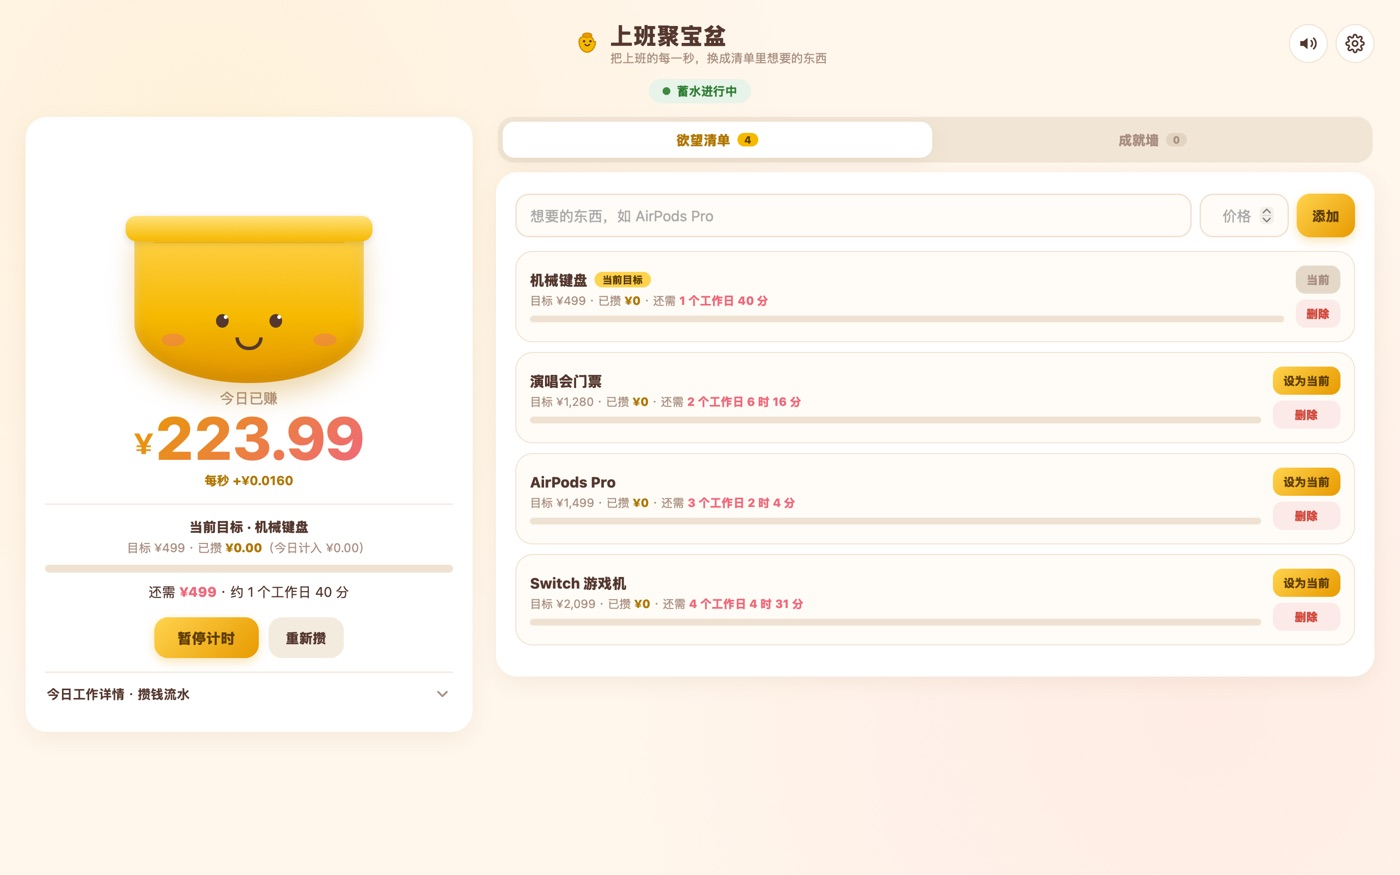
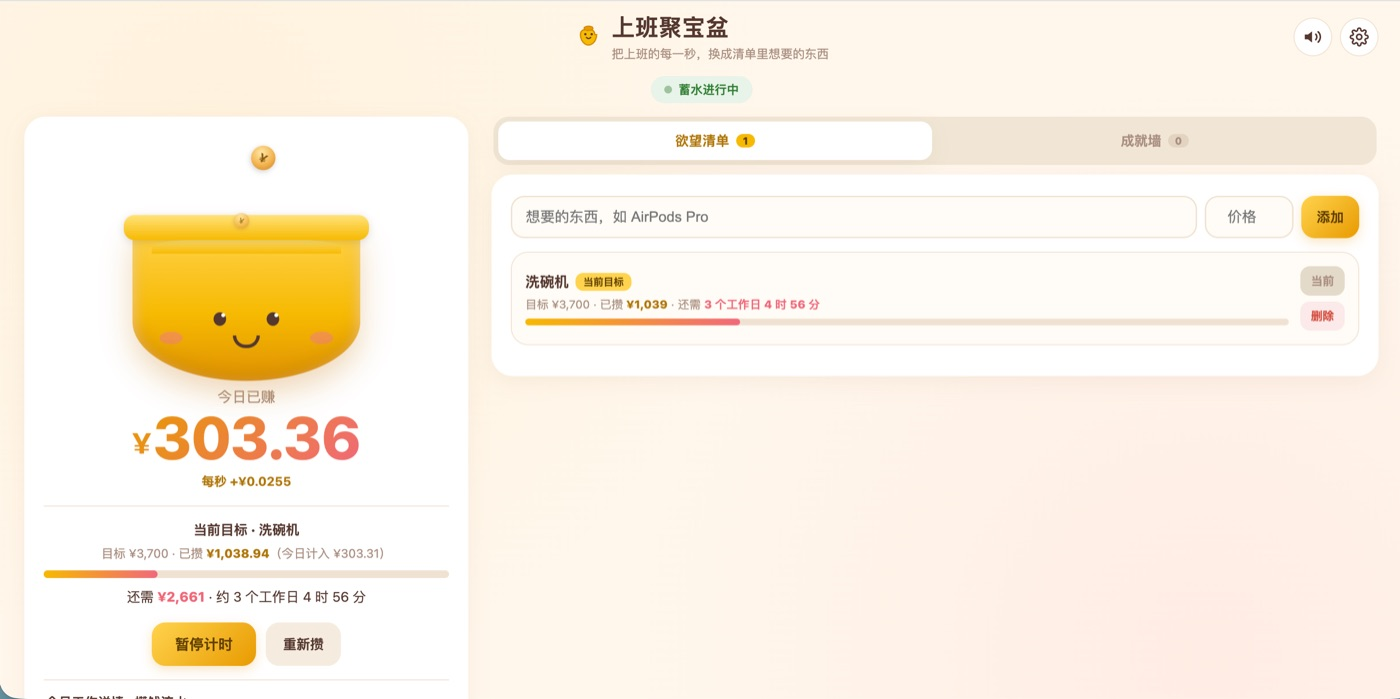
README 按 DeskCal 风格重排：主图直铺、使用表格、真实截图

diff --git a/README.md b/README.md
@@ -1,32 +1,27 @@
-# 上班好搭子 · 桌面悬浮球（开源共享版）
+# 上班好搭子 · 桌面悬浮球
 
-上班摸鱼情绪玩具：网页版设置攒钱目标，工时实时折算收益（每天 8 小时，自动扣除午休），macOS 桌面悬浮球「上班好搭子」实时显示「今日已赚」，数据与网页版实时同步。
+上班摸鱼情绪玩具：网页版设置攒钱目标，把上班的每一秒折算成钱（每天 8 小时，自动扣午休），macOS 桌面悬浮球实时显示「今日已赚」，数据与网页版实时同步。
 
-## 预览
+![桌面悬浮球](screenshots/float-ball.jpg)
 
-| 桌面悬浮球（透明悬浮） | 悬停展开目标详情 | 网页版 |
-|---|---|---|
-| ![悬浮球](screenshots/float-ball.jpg) | ![悬停展开](screenshots/float-expanded.jpg) | ![网页版](screenshots/web.jpg) |
+## 特性
 
-## 功能
+1. **透明悬浮球**：无边框透明面板贴在桌面上，壁纸之上、窗口之下，不挡工作。
+2. **今日已赚实时跳动**：月薪 ÷ 21.75 个工作日 ÷ 每天 8 小时，算出每秒身价，金币往下掉、数字实时在涨。
+3. **拖动 / 缩放 / 置顶**：按住面板拖动，拖右下角缩放，单击切换置顶或回到桌面层。
+4. **悬停展开目标**：鼠标移上去展开当前攒钱目标与进度，移开自动收起。
+5. **网页版同源同口径**：网页管月薪、时间、欲望清单和成就墙，悬浮球纯展示，改完目标 3 秒内两端一致。
+6. **数据在自己手里**：数据存在你自己的浏览器和服务器，同步接口带密钥鉴权，GitHub 上没有你的任何数据。
 
-- **网页版**（单文件 HTML）：目标管理、今日已赚实时计时、金币雨动画、本地存储 + 服务器同步
-- **桌面悬浮球**（macOS）：透明无边框、聚宝盆图标、今日已赚实时显示、可拖动/缩放、悬停展开目标详情、单击切换置顶
-- **数据同步**：网页保存时推送服务器 `/sync`，悬浮球每 3 秒轮询拉取，两端完全一致
+## 网页版
 
-## 目录结构
+网页版负责一切配置与记录：月薪、上下班与午休时间、欲望清单、成就墙、自动快照。
 
-```
-money-floatball/
-├── app/          # macOS 悬浮球（Swift 源码 + Info.plist + build.sh）
-├── web/          # 网页版（index.html）与悬浮球页面（float.html）
-├── server/       # 同步服务（sync.py）+ nginx/systemd 部署示例
-└── README.md
-```
+![网页版](screenshots/web.jpg)
 
 ## 快速开始
 
-### 1. 部署网页版与同步服务（服务器，Linux + nginx）
+### 1. 部署网页版与同步服务（Linux + nginx）
 
 ```bash
 # 上传 web/ 与 server/ 到服务器，例如 /var/www/money-floatball/
@@ -46,18 +41,33 @@ sudo nginx -t && sudo systemctl reload nginx
 
 ### 2. 构建并运行「上班好搭子」（macOS）
 
+需要 macOS 12 或更高，以及 Xcode 命令行工具。
+
 ```bash
 cd app && ./build.sh   # 需要 Xcode Command Line Tools
 open 上班好搭子.app
 ```
 
-菜单栏 💰 → **设置服务器与密钥**，填入你的网页版地址（如 `http://your-domain.com/float.html`）与同步密钥（可留空，服务器配了 SYNC_KEY 才需要）。
+首次打开，菜单栏 💰 → **设置服务器与密钥**，填入网页版地址（如 `http://your-domain.com/float.html`）与同步密钥（可留空，服务器配了 SYNC_KEY 才需要）。
 
-### 3. 使用
+自己编译的 App 没有 Apple 签名，如果双击提示「已损坏」或没反应，执行：
 
-- 网页版：打开 `/`，添加目标 → 设置月薪与上班时间 → 开始攒钱
-- 悬浮球：拖动移动，拖右下角缩放，单击切换置顶，悬停展开目标详情
-- 数据自动双向同步（网页保存 → 服务器 → 悬浮球，3 秒内）
+```bash
+xattr -d com.apple.quarantine 上班好搭子.app
+```
+
+## 使用
+
+| 操作 | 说明 |
+|---|---|
+| 移动位置 | 按住面板主体拖动 |
+| 改大小 | 拖右下角缩放手柄 |
+| 切换置顶 | 单击面板，或菜单栏 💰 的「固定 / 取消固定」 |
+| 看目标进度 | 鼠标悬停展开（见下图） |
+| 打开网页版 | 菜单栏 💰 → 打开网页版 |
+| 换服务器 / 密钥 | 菜单栏 💰 → 设置服务器与密钥 |
+
+![悬停展开目标](screenshots/float-expanded.jpg)
 
 ## 数据隔离（重要）
 
@@ -79,10 +89,25 @@ open 上班好搭子.app
 
 - 所有数据默认只存你自己的浏览器（localStorage）和你的服务器（data.json），不上传任何第三方
 - 仓库不含任何真实用户数据；`data.json` 已被 .gitignore 排除
-- 同步接口用 `X-Sync-Key` 请求头鉴权；**如需更高安全性**（防懂技术的人抓包），请配置 HTTPS（nginx + 域名证书），并可在 nginx 层叠加 Basic Auth（`htpasswd` 生成密码文件，`auth_basic "Restricted"; auth_basic_user_file /etc/nginx/.htpasswd;`）
+- 同步接口用 `X-Sync-Key` 请求头鉴权；如需更高安全性（防懂技术的人抓包），请配置 HTTPS（nginx + 域名证书），并可在 nginx 层叠加 Basic Auth（`htpasswd` 生成密码文件，`auth_basic "Restricted"; auth_basic_user_file /etc/nginx/.htpasswd;`）
+
+## 目录结构
+
+```
+money-floatball/
+├── app/          # macOS 悬浮球（Swift 源码 + Info.plist + build.sh）
+├── web/          # 网页版（index.html）与悬浮球页面（float.html）
+├── server/       # 同步服务（sync.py）+ nginx/systemd 部署示例
+├── screenshots/  # README 截图
+└── README.md
+```
 
 ## 技术栈
 
 - 网页：原生 HTML/CSS/JS 单文件（无任何依赖）
 - 悬浮球：Swift + AppKit + WebKit（NSPanel 透明无边框窗口）
 - 同步：Python http.server（零依赖）
+
+## 许可
+
+[MIT License](LICENSE)
